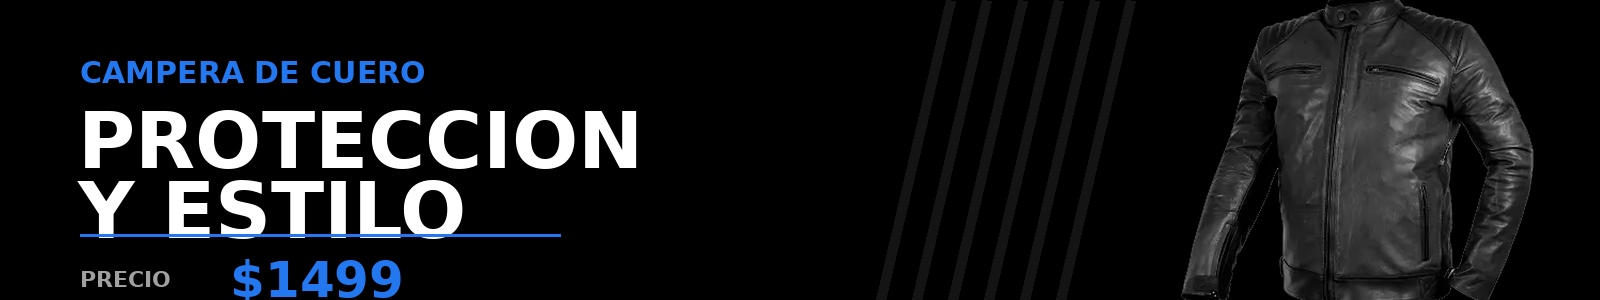
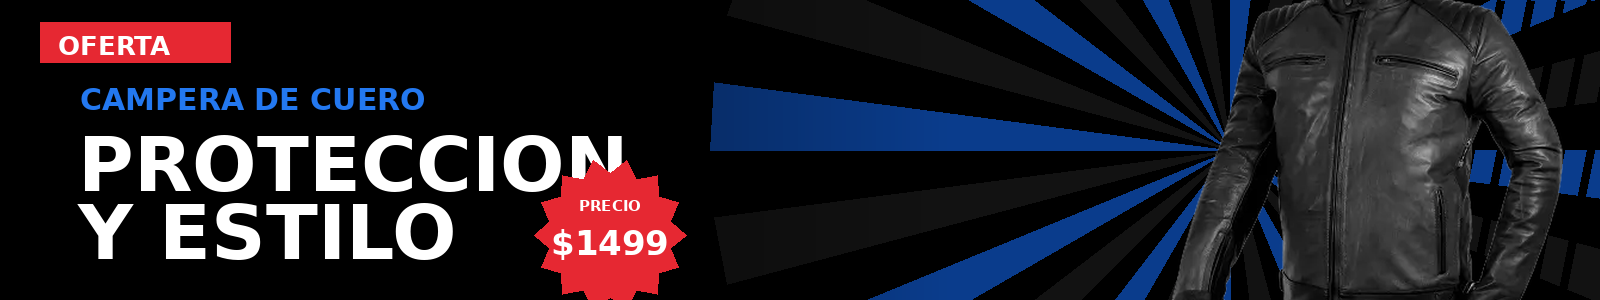
Pequeñas correciones en confirmar-compra

diff --git a/js/gestores/gestorVentas.js b/js/gestores/gestorVentas.js
@@ -1,19 +1,19 @@
-import {Venta} from "../modelos/Venta.js";
-import {Respuesta} from "./res/Respuesta.js";
+import { Venta } from "../modelos/Venta.js";
+import { Respuesta } from "./res/Respuesta.js";
 
 export class GestorVentas {
     #ventas;
     #storage;
     #clave;
 
-    constructor(storage, clave = "ventas"){
+    constructor(storage, clave = "ventas") {
         this.#storage = storage;
         this.#clave = clave;
         this.#ventas = [];
         this.cargar();
     }
 
-     obtenerSiguienteId() {
+    obtenerSiguienteId() {
         if (this.#ventas.length === 0) {
             return 1;
         }
@@ -21,8 +21,8 @@ export class GestorVentas {
         let mayorId = this.#ventas[0].id;
 
         for (const venta of this.#ventas) {
-            if (producto.id > mayorId) {
-                mayorId = producto.id;
+            if (venta.id > mayorId) {
+                mayorId = venta.id;
             }
         }
 
@@ -33,13 +33,21 @@ export class GestorVentas {
         return [...this.#ventas];
     }
 
-    registrar (subtotal, iva, total, productos, usuario, direccion) {
-	
-        let venta = new Venta(obtenerSiguienteID(), subtotal, iva, total, usuario, productos, direccion);
-        
-        this.#ventas.push(nuevo);
+    registrar(subtotal, iva, total, productos, usuario, direccion) {
+        let venta = new Venta(
+            this.obtenerSiguienteId(),
+            subtotal,
+            iva,
+            total,
+            usuario,
+            productos,
+            direccion
+        );
+
+        this.#ventas.push(venta);
         this.guardar();
-        return venta;
+
+        return new Respuesta(true, "Venta registrada correctamente", venta);
     }
 
     obtenerPorId(id) {
@@ -48,11 +56,12 @@ export class GestorVentas {
     }
 
     guardar() {
-        this.#storage.guardar(this.#clave, this.#ventas);
+        let datos = this.#ventas.map(v => v.toJSON());
+        this.#storage.guardar(this.#clave, datos);
     }
 
     cargar() {
         let datos = this.#storage.obtener(this.#clave, []);
-        this.#ventas = datos.map(d => JSON.parse(d));
+        this.#ventas = datos.map(d => Venta.fromJSON(d));
     }
 }

diff --git a/js/modelos/Venta.js b/js/modelos/Venta.js
@@ -14,8 +14,44 @@ export class Venta {
         this.#iva = iva;
         this.#total = total;
         this.#usuario = usuario;
-        this.#fecha = new Date().toString();;
-        this.#productos = productos;
-        this.#direccion = direccion
+        this.#fecha = new Date().toString();
+        this.#productos = productos; // array de items del carrito
+        this.#direccion = direccion; // string: dirección escrita o lat/lng
     }
+
+    get id() { return this.#id; }
+    get subtotal() { return this.#subtotal; }
+    get iva() { return this.#iva; }
+    get total() { return this.#total; }
+    get usuario() { return this.#usuario; }
+    get fecha() { return this.#fecha; }
+    get productos() { return this.#productos; }
+    get direccion() { return this.#direccion; }
+
+    
+    toJSON() {
+        return {
+            id: this.#id,
+            subtotal: this.#subtotal,
+            iva: this.#iva,
+            total: this.#total,
+            usuario: this.#usuario,
+            fecha: this.#fecha,
+            productos: this.#productos,
+            direccion: this.#direccion
+        };
+    }
+
+    static fromJSON(datos) {
+        return new Venta(
+            datos.id,
+            datos.subtotal,
+            datos.iva,
+            datos.total,
+            datos.usuario,
+            datos.productos,
+            datos.direccion
+        );
+    }
+
 }

diff --git a/js/pages/confirmar-compra.js b/js/pages/confirmar-compra.js
@@ -63,10 +63,10 @@ function mostrarMapa(){
 
 async function buscarDireccion(direccion) {
   let url = `https://nominatim.openstreetmap.org/search?format=json&q=${encodeURIComponent(direccion)}`;
-  let response = await fetch(url);
-  let data = await response.json();
+  let respuesta = await fetch(url);
+  let datos = await respuesta.json();
 
-  if (data.length > 0) {
+  if (datos.length > 0) {
     let lat = parseFloat(data[0].lat);
     let lon = parseFloat(data[0].lon);
 
@@ -80,12 +80,11 @@ async function buscarDireccion(direccion) {
 
 async function obtenerDireccion(lat, lon) {
   let url = `https://nominatim.openstreetmap.org/reverse?format=json&lat=${lat}&lon=${lon}`;
-  let response = await fetch(url);
-  let data = await response.json();
+  let respuesta = await fetch(url);
+  let datos = await respuesta.json();
 
-  if (data && data.display_name) {
-    // Inserta la dirección textual en el input
-    document.getElementById("direccion").value = data.display_name;
+  if (datos && datos.display_name) {
+    document.getElementById("direccion").value = datos.display_name;
   } else {
     mostrarModal(false, "No se encontró la dirección.");
   }

diff --git a/index.html b/index.html
@@ -76,7 +76,7 @@
             <img src="./img/carrusel3.png" class="d-block w-100" alt="productosoff">
           </div>
           <div class="carousel-item">
-            <img src="./img/carrusel_campera.png" class="d-block w-100" alt="promos">
+            <img src="./img/carrusel4.png" class="d-block w-100" alt="promos">
           </div>
         </div>
         <button class="carousel-control-prev" type="button" data-bs-target="#carouselExample" data-bs-slide="prev">
